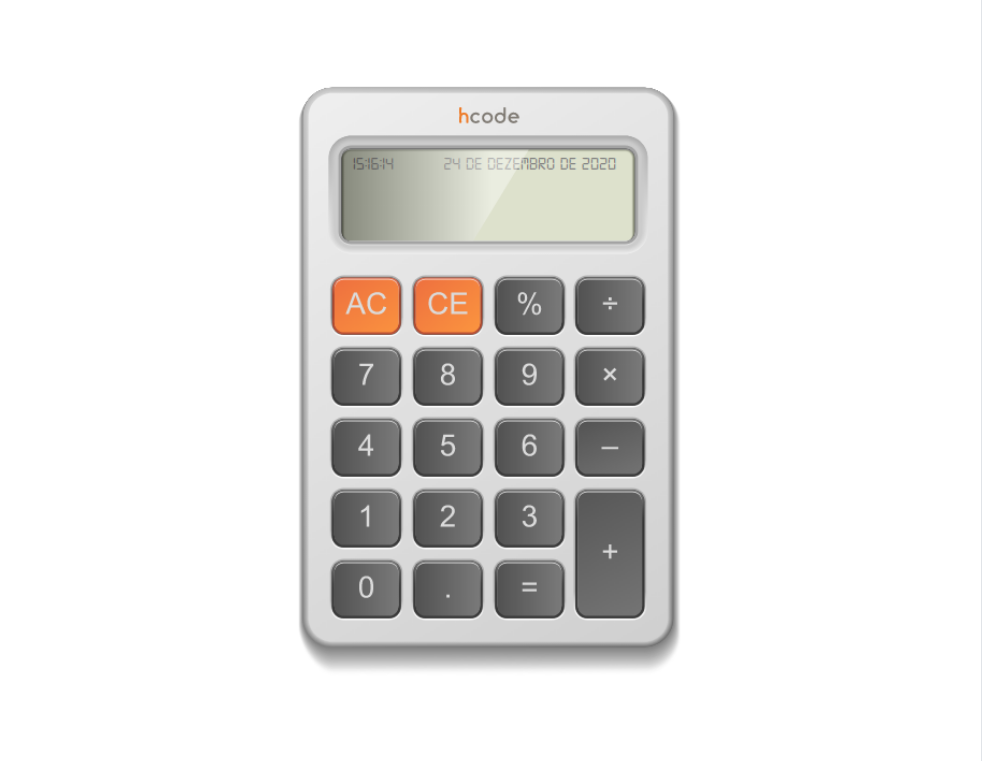
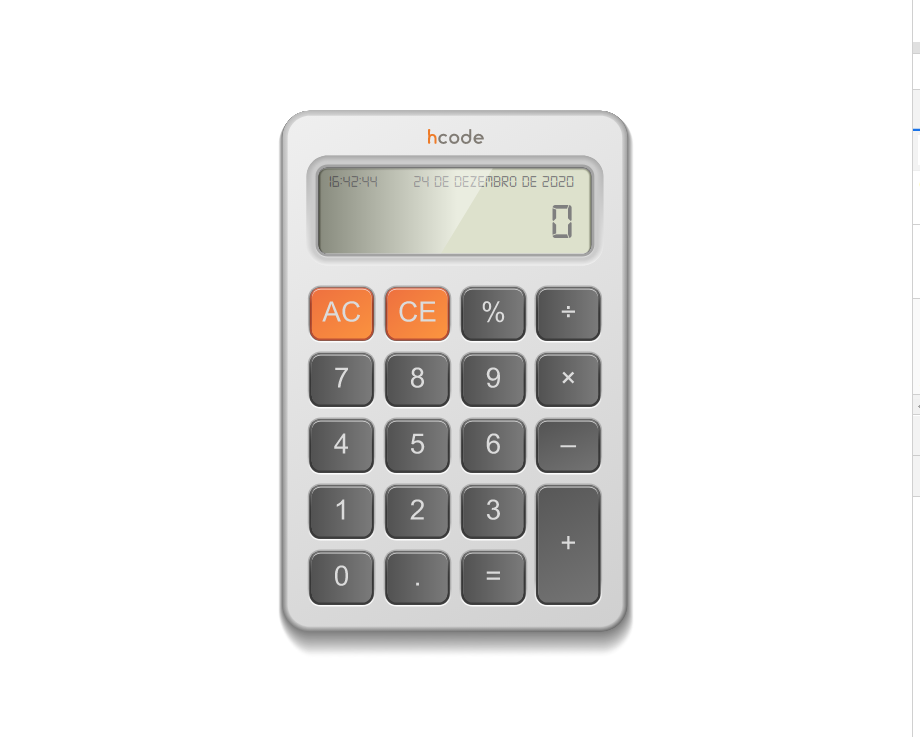
Refaturando o botao de igual ao pressionar mais de uma vez

Changed region(s): [[0.3043, 0.0936, 0.7, 0.905], [0.9739, 0.0624, 1.0, 0.0936]]

diff --git a/scripts/controller/CalcController.js b/scripts/controller/CalcController.js
@@ -1,5 +1,7 @@
 class CalcController {
   constructor() {
+    this._lastOperator = '';
+    this._lastNumber = '';
     this._operation = [];
     this._locale = 'pt-BR';
     this._displayCalcE1 = document.querySelector('#display');
@@ -58,14 +60,27 @@ class CalcController {
     }
   }
 
+  getResult() {
+    return eval(this._operation.join(''));
+  }
+
   calc() {
     let last = '';
+    this._lastOperator = this.getLastItem();
+
+    if (this._operation.length < 3) {
+      let firstItem = this._operation[0];
+      this._operation = [firstItem, this._lastOperator, this._lastNumber];
+    }
 
     if (this._operation.length > 3) {
       last = this._operation.pop();
+      this._lastNumber = this.getResult();
+    } else if (this._operation.length == 3) {
+      this._lastNumber = this.getLastItem(false);
     }
 
-    let result = eval(this._operation.join(''));
+    let result = this.getResult();
 
     if (last == '%') {
       result /= 100;
@@ -78,14 +93,25 @@ class CalcController {
     this.setLastNumberToDisplay();
   }
 
-  setLastNumberToDisplay() {
-    let lastNumber;
+  getLastItem(isOperator = true) {
+    let lastItem;
+
     for (let i = this._operation.length - 1; i >= 0; i--) {
-      if (!this.isOperator(this._operation[i])) {
-        lastNumber = this._operation[i];
+      if (this.isOperator(this._operation[i]) == isOperator) {
+        lastItem = this._operation[i];
         break;
       }
     }
+
+    if (!lastItem) {
+      lastItem = isOperator ? this._lastOperator : this._lastNumber;
+    }
+
+    return lastItem;
+  }
+
+  setLastNumberToDisplay() {
+    let lastNumber = this.getLastItem(false);
 
     if (!lastNumber) lastNumber = 0;
 
